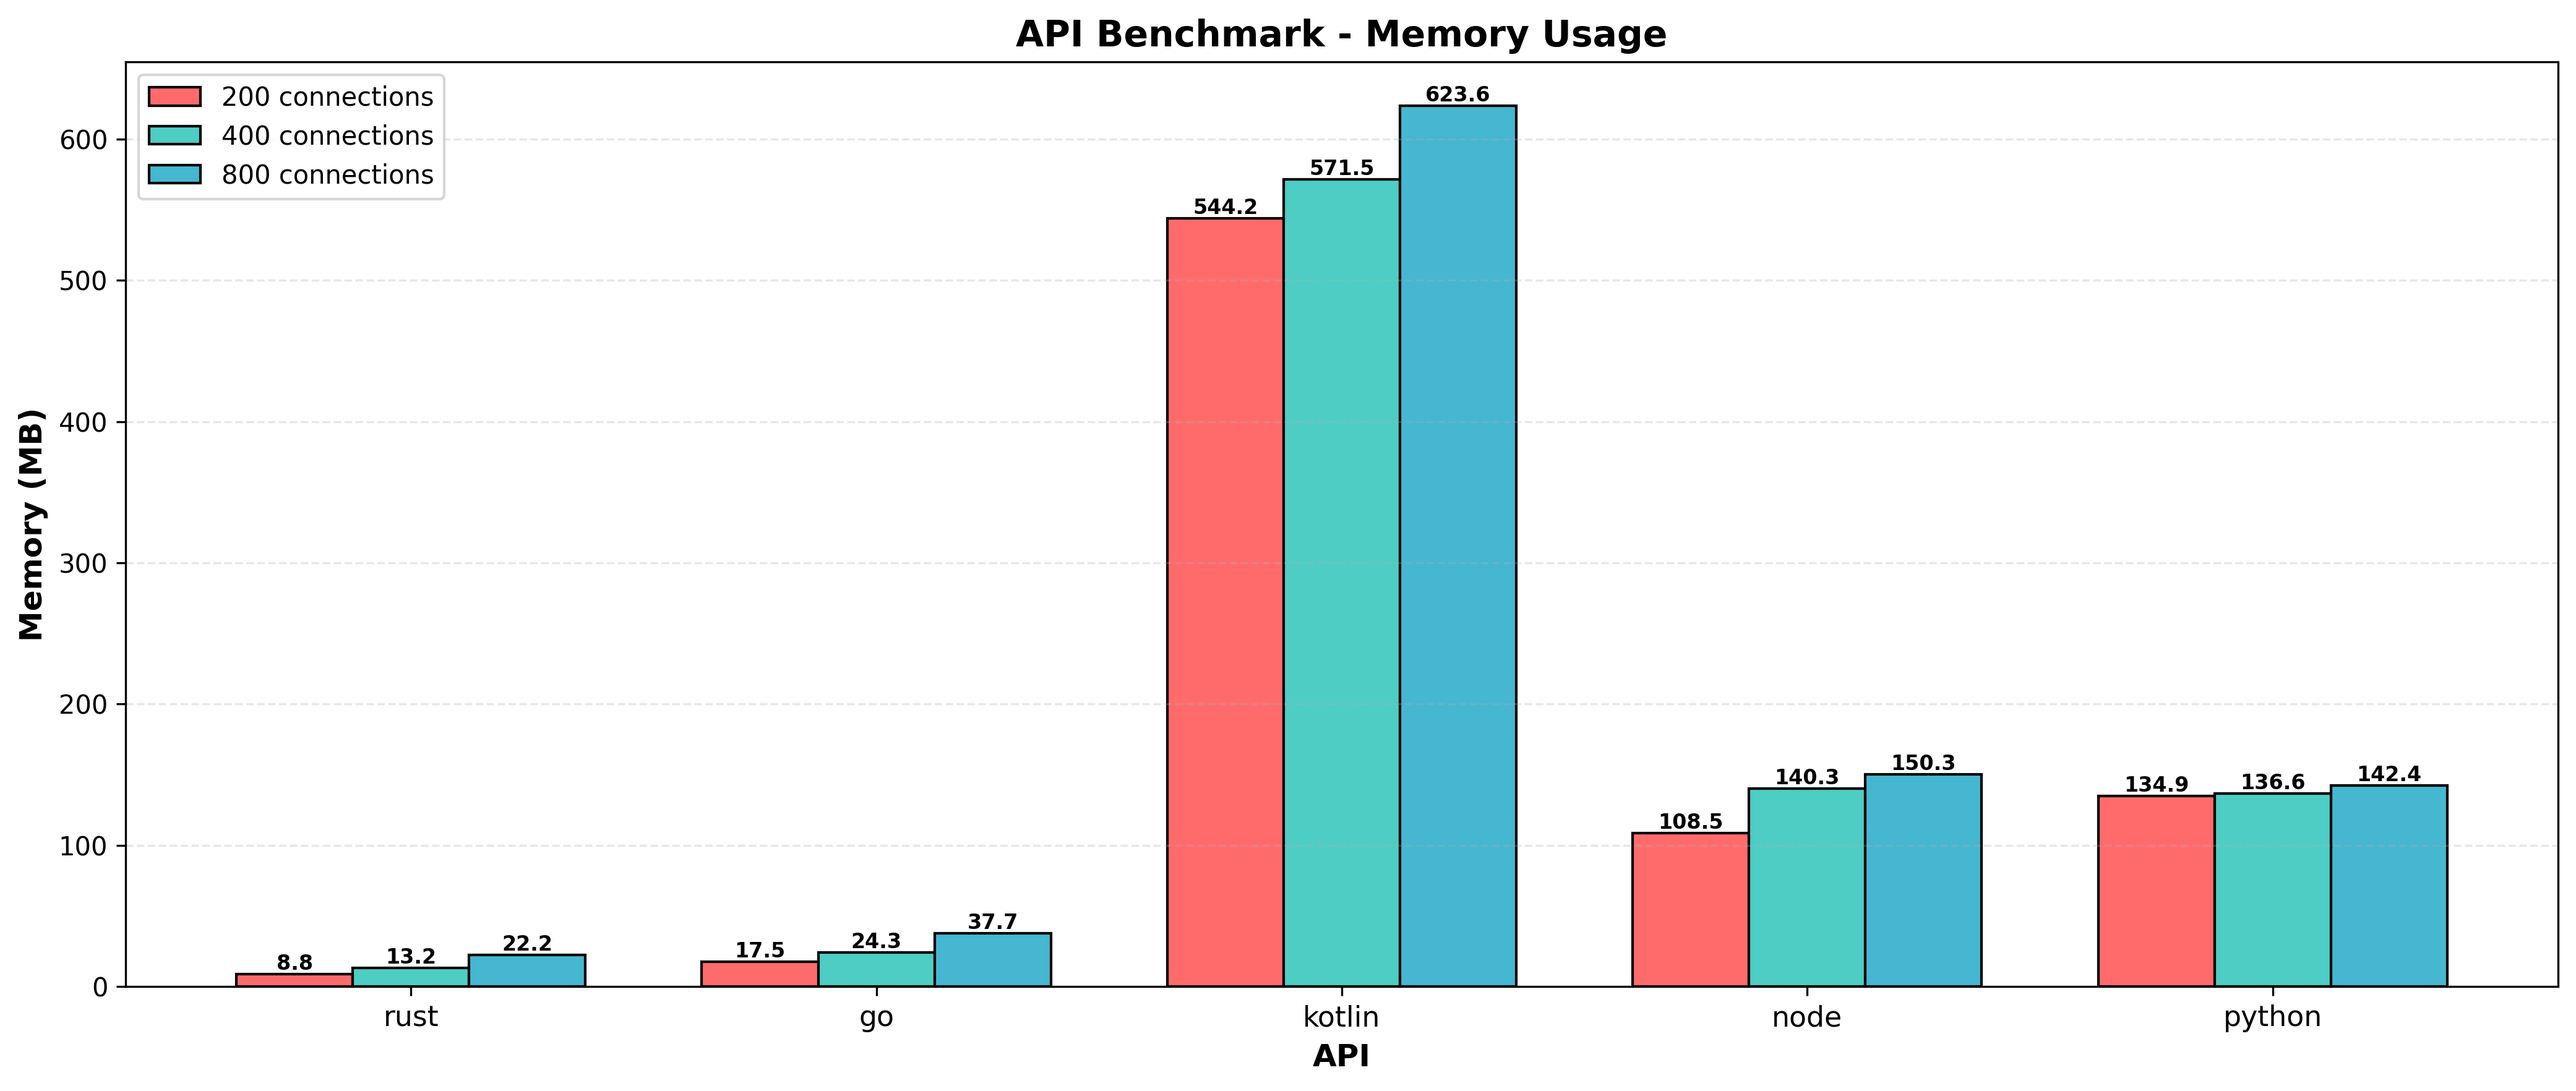
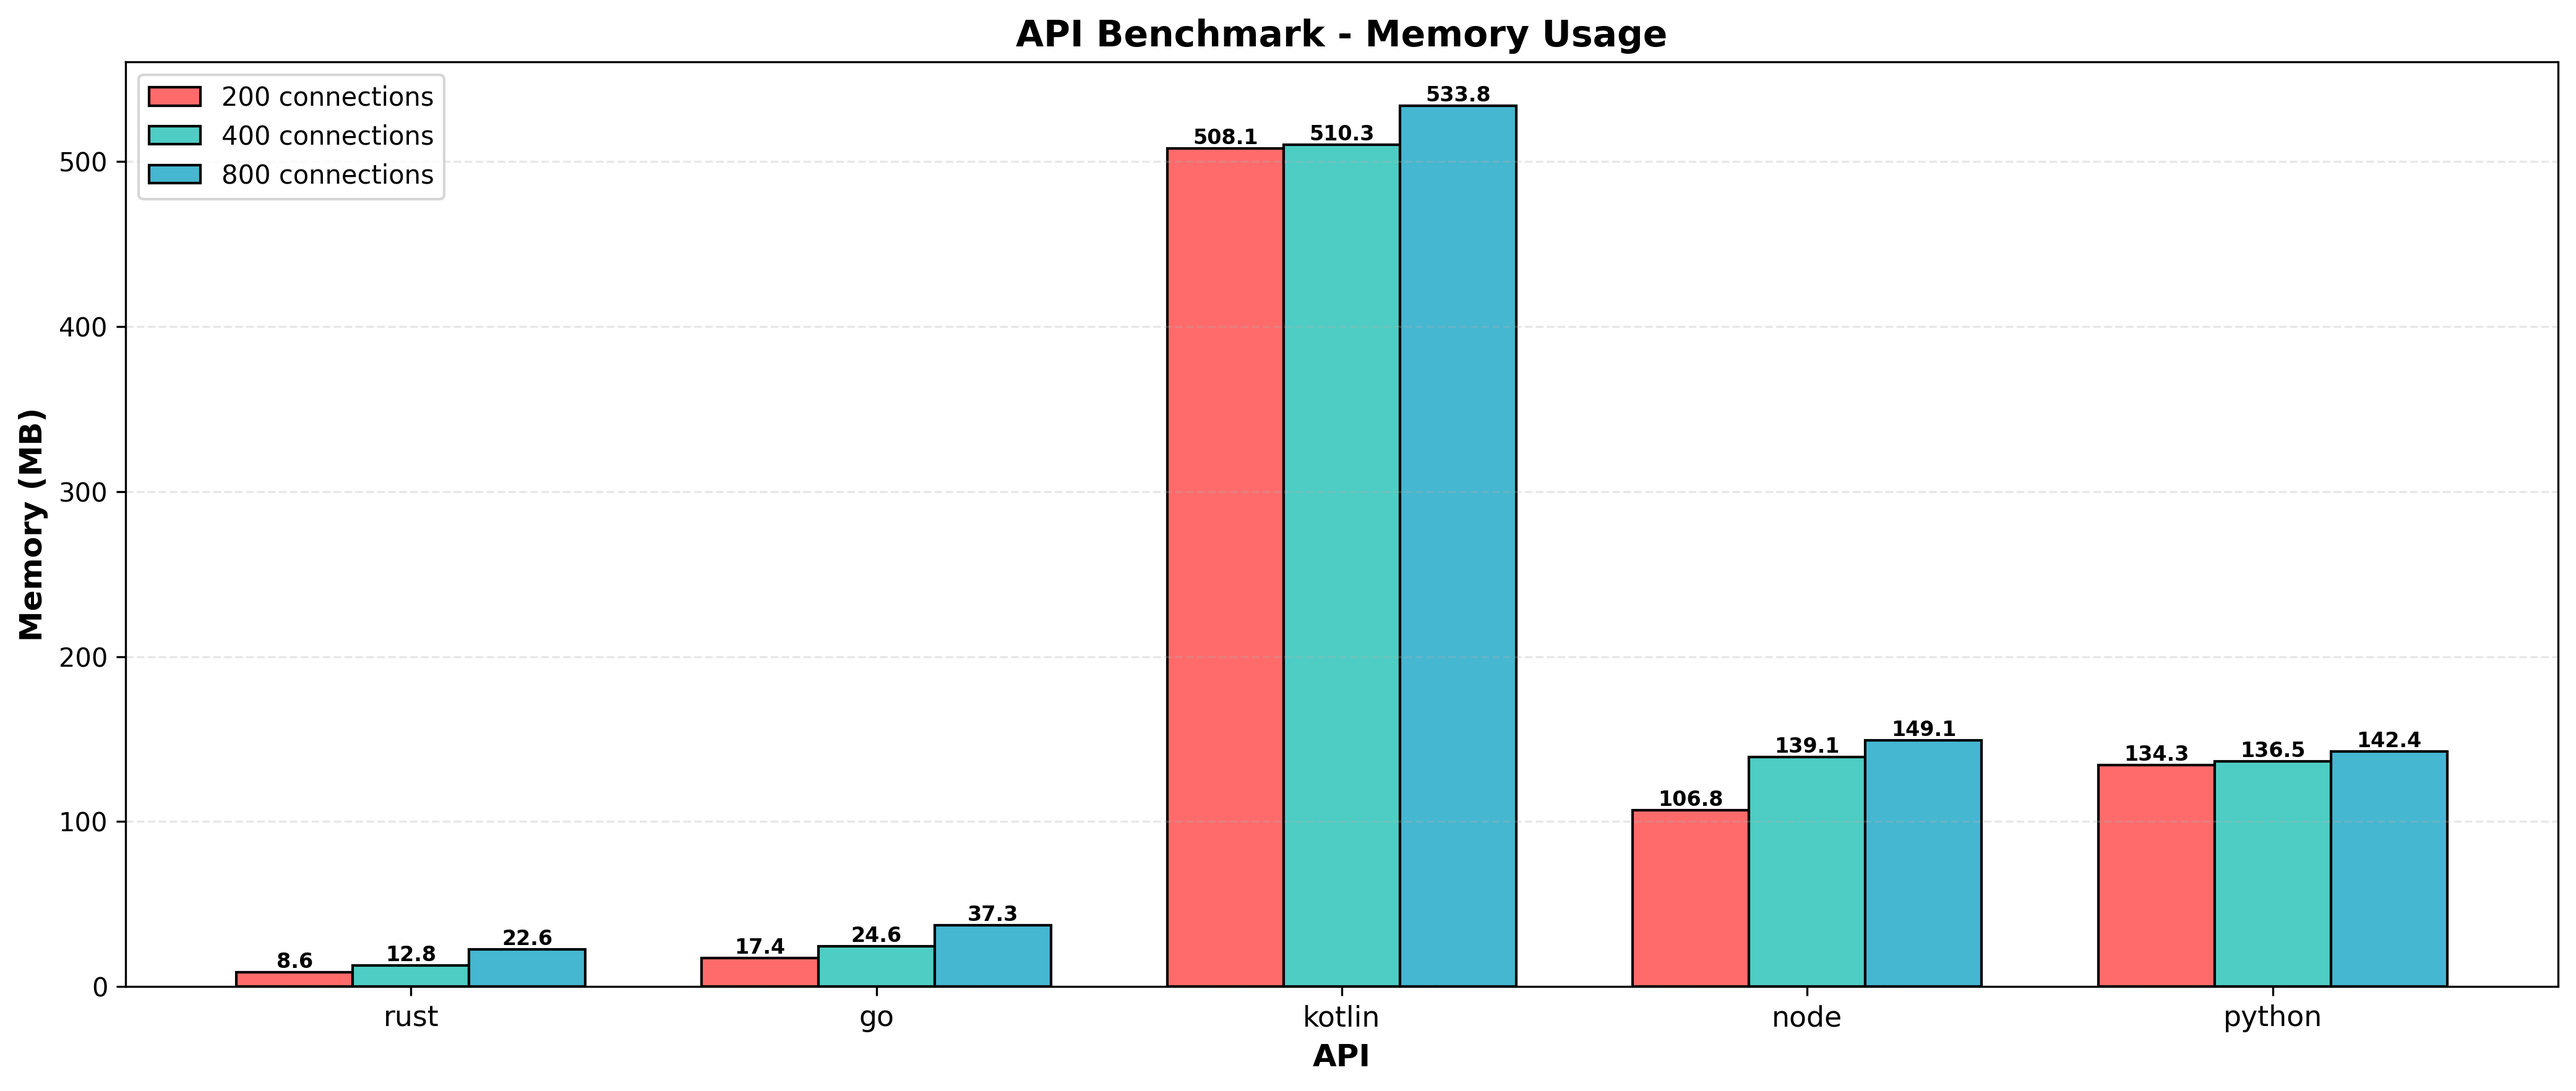
results from github actions autocommit

diff --git a/results/raw.md b/results/raw.md
@@ -1,26 +1,26 @@
 # Results
 ## Timestamp
-Sun Jan 11 17:38:09 UTC 2026
+Sun Jan 11 23:45:37 UTC 2026
 ## Hardware Info
 | CPU Model | Num CPUs | Memory |
 | --------- | -------- | ------ |
-| Intel(R) Xeon(R) Platinum 8370C CPU @ 2.80GHz | 4 | 16G |
+| AMD EPYC 7763 64-Core Processor | 4 | 16G |
 
 ## Benchmarks of 1 Million Requests
 | Test Name | HTTP Conns | Success Rate | Test Seconds | Requests per Second | P50 Millis | P99 Millis | P99.9 Millis | API Memory MB | API CPU Time | API Threads | API Processes |
 | --------- | ---------- | ------------ | ------------ | ------------------- | ---------- | ---------- | ------------ | ------------- | ------------ | ----------- | ------------- |
-| rust | 200 | 100.0% | 6.0 | 164296.1 | 1.0936 | 2.8271 | 3.9948 | 8.8 | 00:00:11 | 5 | 1 |
-| rust | 400 | 100.0% | 6.0 | 166494.0 | 2.4486 | 3.9465 | 6.2916 | 13.2 | 00:00:11 | 5 | 1 |
-| rust | 800 | 100.0% | 6.2 | 160857.7 | 4.8706 | 8.2129 | 12.1163 | 22.2 | 00:00:11 | 5 | 1 |
-| go | 200 | 100.0% | 8.6 | 116045.2 | 1.3475 | 5.5124 | 7.7084 | 17.5 | 00:00:20 | 10 | 1 |
-| go | 400 | 100.0% | 8.3 | 119474.1 | 2.7454 | 9.7910 | 13.2753 | 24.3 | 00:00:20 | 10 | 1 |
-| go | 800 | 100.0% | 8.5 | 116794.1 | 6.1504 | 17.0802 | 28.4167 | 37.7 | 00:00:20 | 10 | 1 |
-| kotlin | 200 | 100.0% | 11.1 | 89560.7 | 1.4623 | 9.6492 | 35.0629 | 544.2 | 00:00:31 | 30 | 1 |
-| kotlin | 400 | 100.0% | 11.5 | 86426.3 | 3.6661 | 17.8380 | 68.9591 | 571.5 | 00:00:33 | 30 | 1 |
-| kotlin | 800 | 100.0% | 12.4 | 80261.7 | 8.1436 | 33.9574 | 100.6231 | 623.6 | 00:00:35 | 30 | 1 |
-| node | 200 | 100.0% | 21.7 | 46069.9 | 3.8329 | 5.7523 | 7.1639 | 108.5 | 00:00:22 | 7 | 1 |
-| node | 400 | 100.0% | 23.1 | 43314.5 | 8.2753 | 12.4135 | 18.1774 | 140.3 | 00:00:23 | 7 | 1 |
-| node | 800 | 100.0% | 26.3 | 37956.8 | 18.3333 | 26.6073 | 42.2830 | 150.3 | 00:00:26 | 7 | 1 |
-| python | 200 | 100.0% | 81.8 | 12218.8 | 12.1941 | 30.9413 | 33.5095 | 134.9 | 00:04:58 | 5 | 5 |
-| python | 400 | 100.0% | 83.8 | 11919.2 | 26.1473 | 72.2510 | 83.0449 | 136.6 | 00:05:06 | 5 | 5 |
-| python | 800 | 100.0% | 86.2 | 11569.6 | 71.6655 | 97.4188 | 108.8411 | 142.4 | 00:05:15 | 5 | 5 |
+| rust | 200 | 100.0% | 8.9 | 111126.4 | 1.6448 | 4.6540 | 6.2959 | 8.6 | 00:00:17 | 5 | 1 |
+| rust | 400 | 100.0% | 8.6 | 116080.7 | 3.2408 | 7.6019 | 10.0539 | 12.8 | 00:00:17 | 5 | 1 |
+| rust | 800 | 100.0% | 8.7 | 114460.2 | 6.8369 | 11.5580 | 16.8850 | 22.6 | 00:00:17 | 5 | 1 |
+| go | 200 | 100.0% | 11.8 | 84271.8 | 1.8776 | 7.3581 | 10.3664 | 17.4 | 00:00:27 | 12 | 1 |
+| go | 400 | 100.0% | 11.4 | 87438.5 | 3.8637 | 13.6286 | 18.8302 | 24.6 | 00:00:27 | 11 | 1 |
+| go | 800 | 100.0% | 11.5 | 86926.3 | 8.2185 | 25.6902 | 38.9902 | 37.3 | 00:00:27 | 11 | 1 |
+| kotlin | 200 | 100.0% | 14.4 | 69447.0 | 2.0136 | 11.6052 | 34.3200 | 508.1 | 00:00:39 | 30 | 1 |
+| kotlin | 400 | 100.0% | 14.3 | 69510.5 | 4.6674 | 21.1400 | 59.8815 | 510.3 | 00:00:39 | 30 | 1 |
+| kotlin | 800 | 100.0% | 15.7 | 63540.8 | 10.4857 | 43.3470 | 100.3568 | 533.8 | 00:00:44 | 30 | 1 |
+| node | 200 | 100.0% | 34.9 | 28568.5 | 6.0861 | 9.3069 | 11.4021 | 106.8 | 00:00:35 | 7 | 1 |
+| node | 400 | 100.0% | 35.7 | 27999.9 | 12.1977 | 19.5664 | 23.5125 | 139.1 | 00:00:36 | 7 | 1 |
+| node | 800 | 100.0% | 37.3 | 26809.4 | 26.8991 | 41.7021 | 55.8942 | 149.1 | 00:00:37 | 7 | 1 |
+| python | 200 | 100.0% | 101.7 | 9849.1 | 16.9376 | 47.3522 | 52.2239 | 134.3 | 00:06:04 | 5 | 5 |
+| python | 400 | 100.0% | 101.1 | 9886.7 | 35.0874 | 79.0410 | 83.4200 | 136.5 | 00:06:06 | 5 | 5 |
+| python | 800 | 100.0% | 102.7 | 9724.5 | 90.9946 | 133.0176 | 145.8130 | 142.4 | 00:06:12 | 5 | 5 |

diff --git a/results/latest.md b/results/latest.md
@@ -1,6 +1,6 @@
 # Latest Results
 
-Timestamp: `Sun Jan 11 17:38:09 UTC 2026`
+Timestamp: `Sun Jan 11 23:45:37 UTC 2026`
 
 ## Requests Per Second
 ![Requests Per Second](rps.png)
